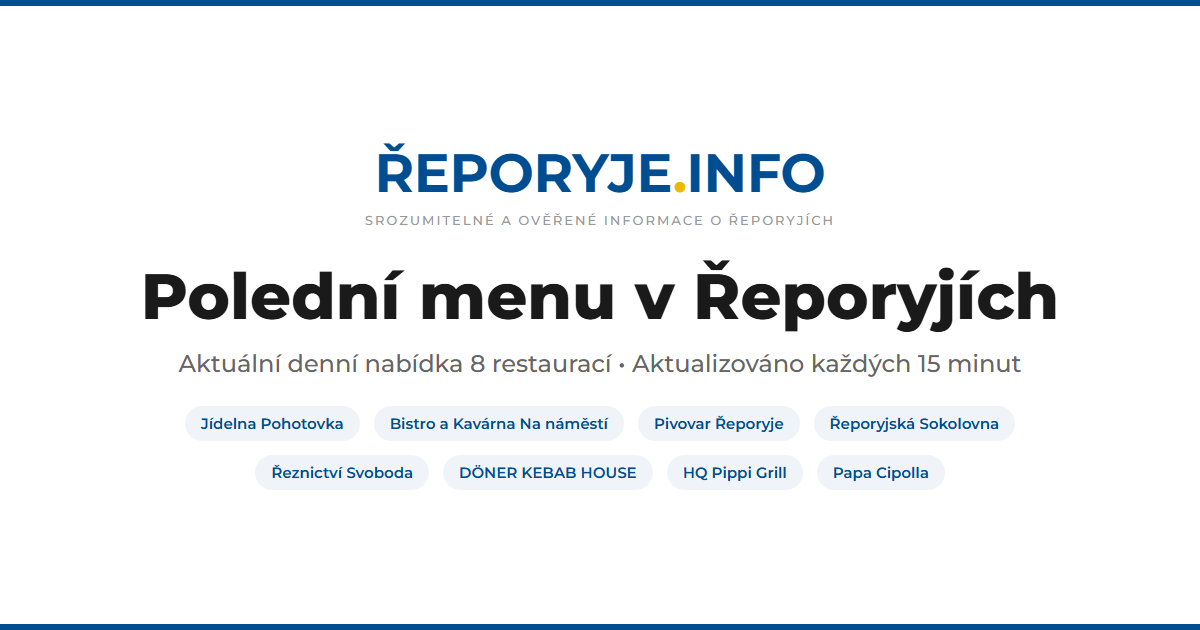
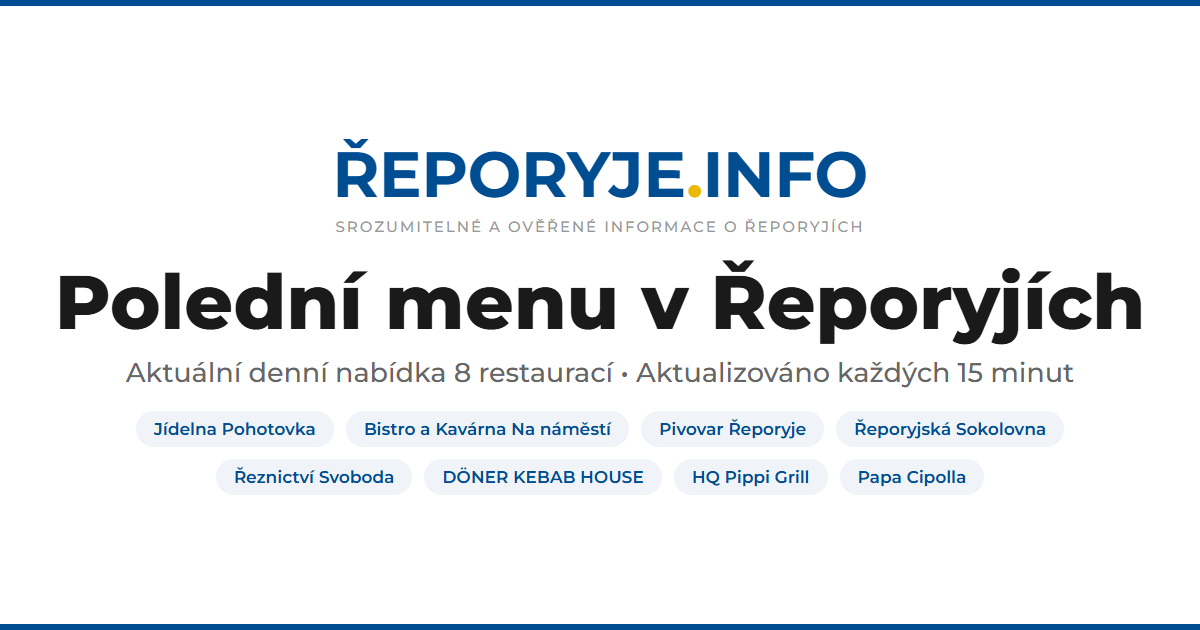
fix: further enlarge OG image text for better readability

diff --git a/scripts/generate-og-image.js b/scripts/generate-og-image.js
@@ -49,49 +49,49 @@ async function generateOgImage() {
       background: #004d92;
     }
     .logo {
-      font-size: 54px;
+      font-size: 64px;
       font-weight: 700;
       color: #004d92;
       letter-spacing: -0.5px;
-      margin-bottom: 6px;
+      margin-bottom: 4px;
     }
     .logo .dot { color: #ecb800; }
     .tagline {
-      font-size: 13px;
+      font-size: 15px;
       font-weight: 500;
       color: #999;
       letter-spacing: 2px;
       text-transform: uppercase;
-      margin-bottom: 32px;
+      margin-bottom: 24px;
     }
     .title {
-      font-size: 64px;
+      font-size: 76px;
       font-weight: 800;
       color: #1a1a1a;
       text-align: center;
-      line-height: 1.15;
-      margin-bottom: 16px;
+      line-height: 1.1;
+      margin-bottom: 12px;
     }
     .subtitle {
-      font-size: 24px;
+      font-size: 27px;
       font-weight: 500;
       color: #666;
       text-align: center;
     }
     .restaurants {
-      margin-top: 28px;
+      margin-top: 22px;
       display: flex;
-      gap: 14px;
+      gap: 12px;
       flex-wrap: wrap;
       justify-content: center;
-      max-width: 1000px;
+      max-width: 1100px;
     }
     .restaurants span {
       background: #f0f4f8;
       color: #004d92;
-      font-size: 15px;
+      font-size: 17px;
       font-weight: 600;
-      padding: 8px 16px;
+      padding: 8px 18px;
       border-radius: 20px;
     }
   </style>
